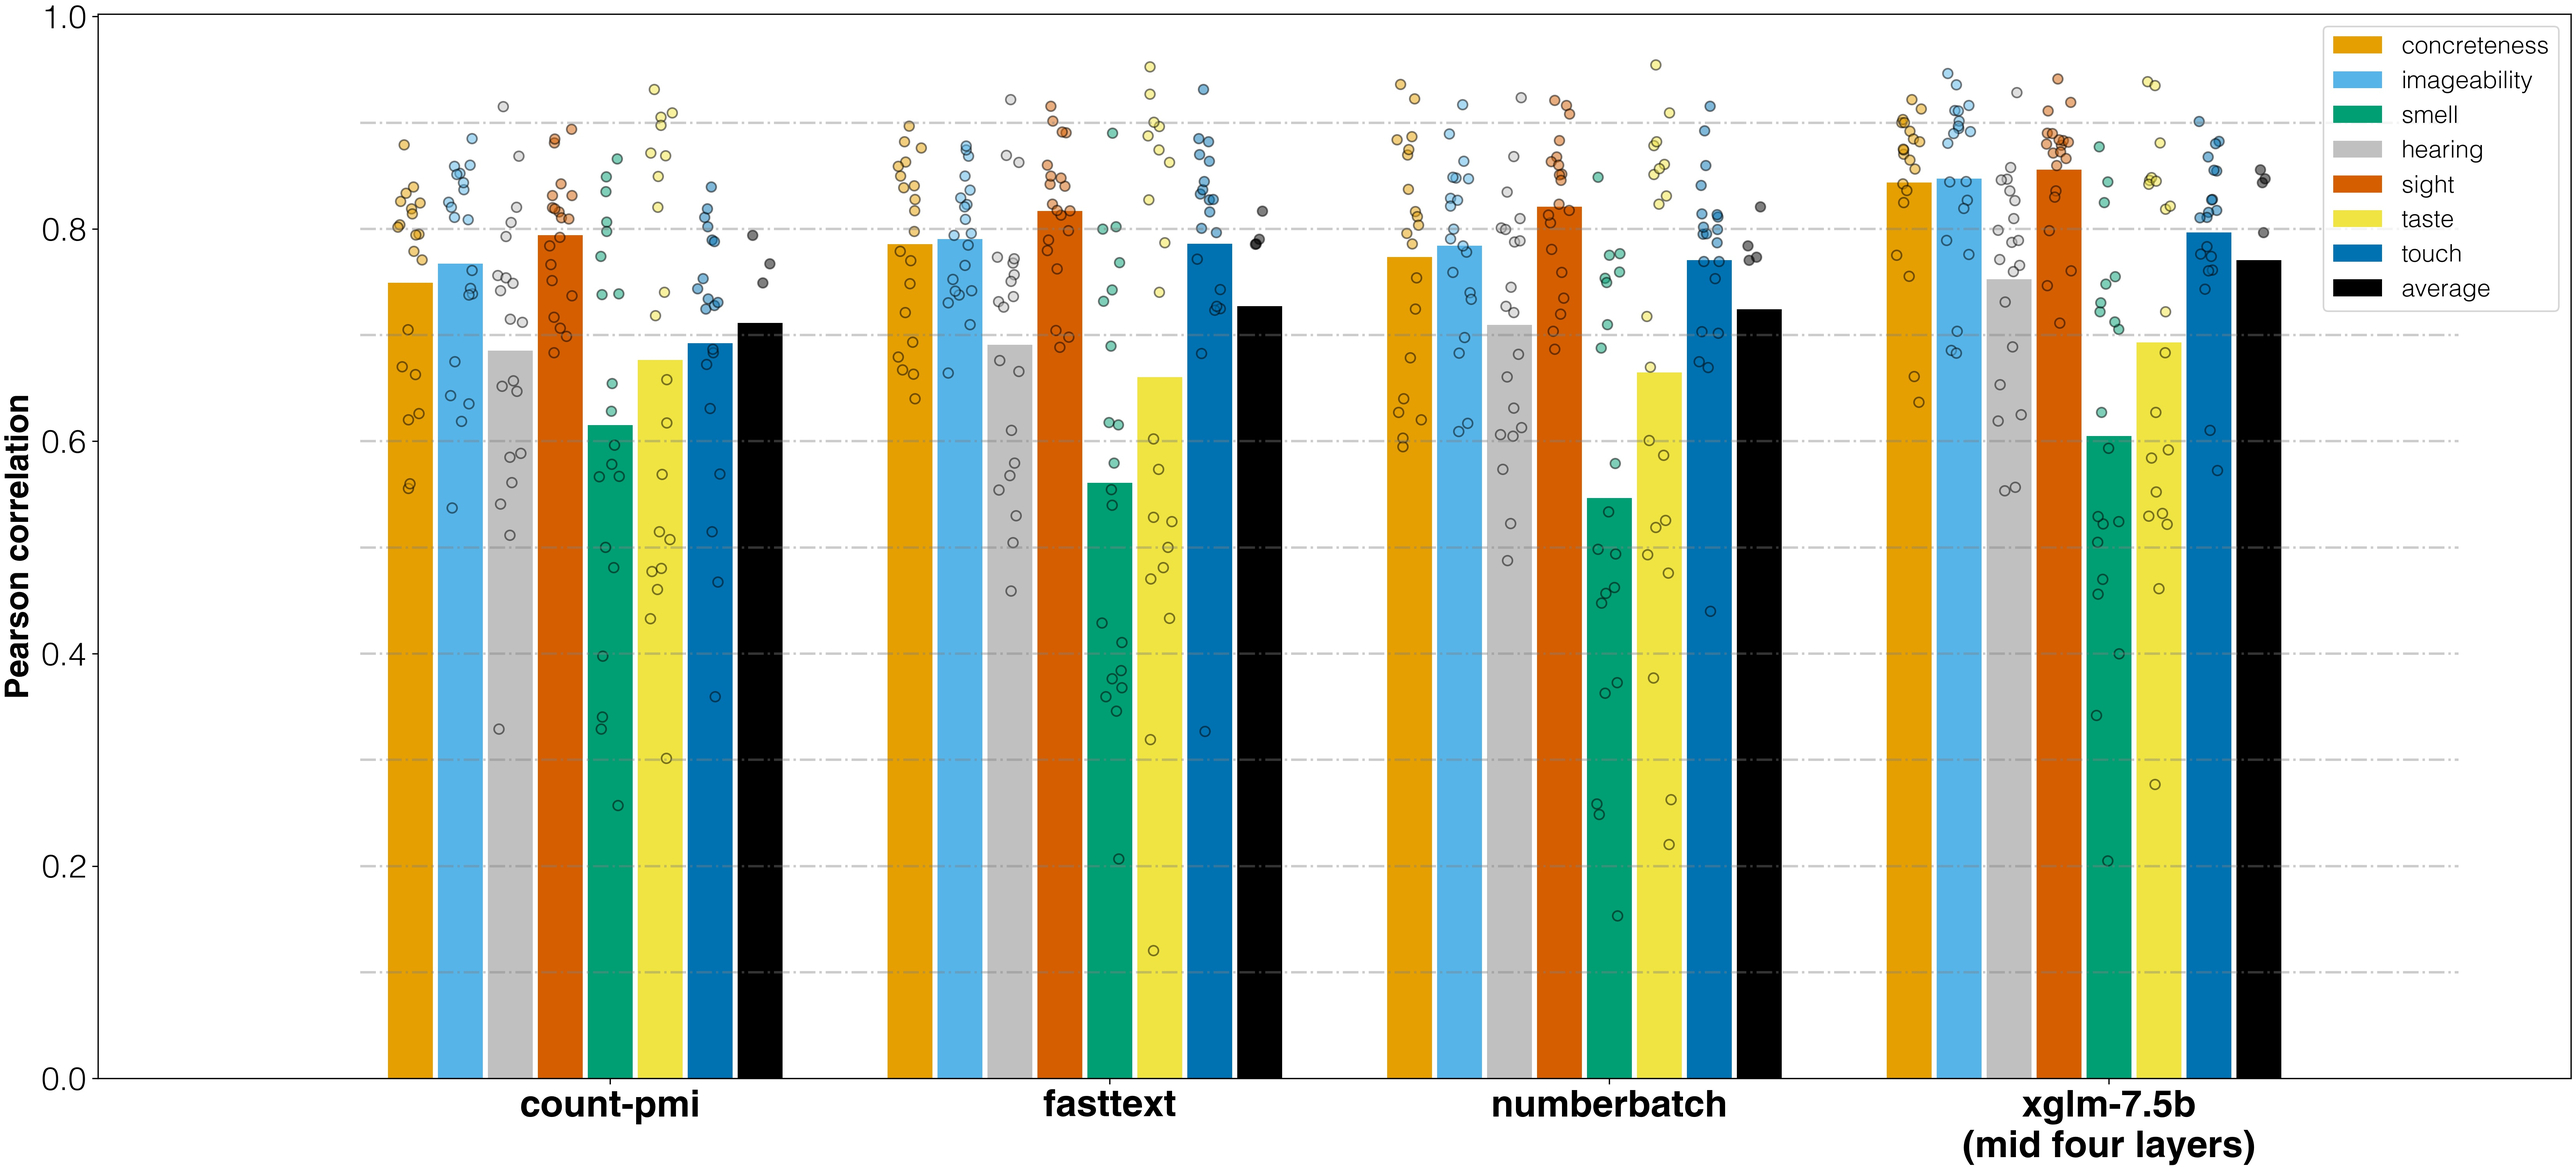
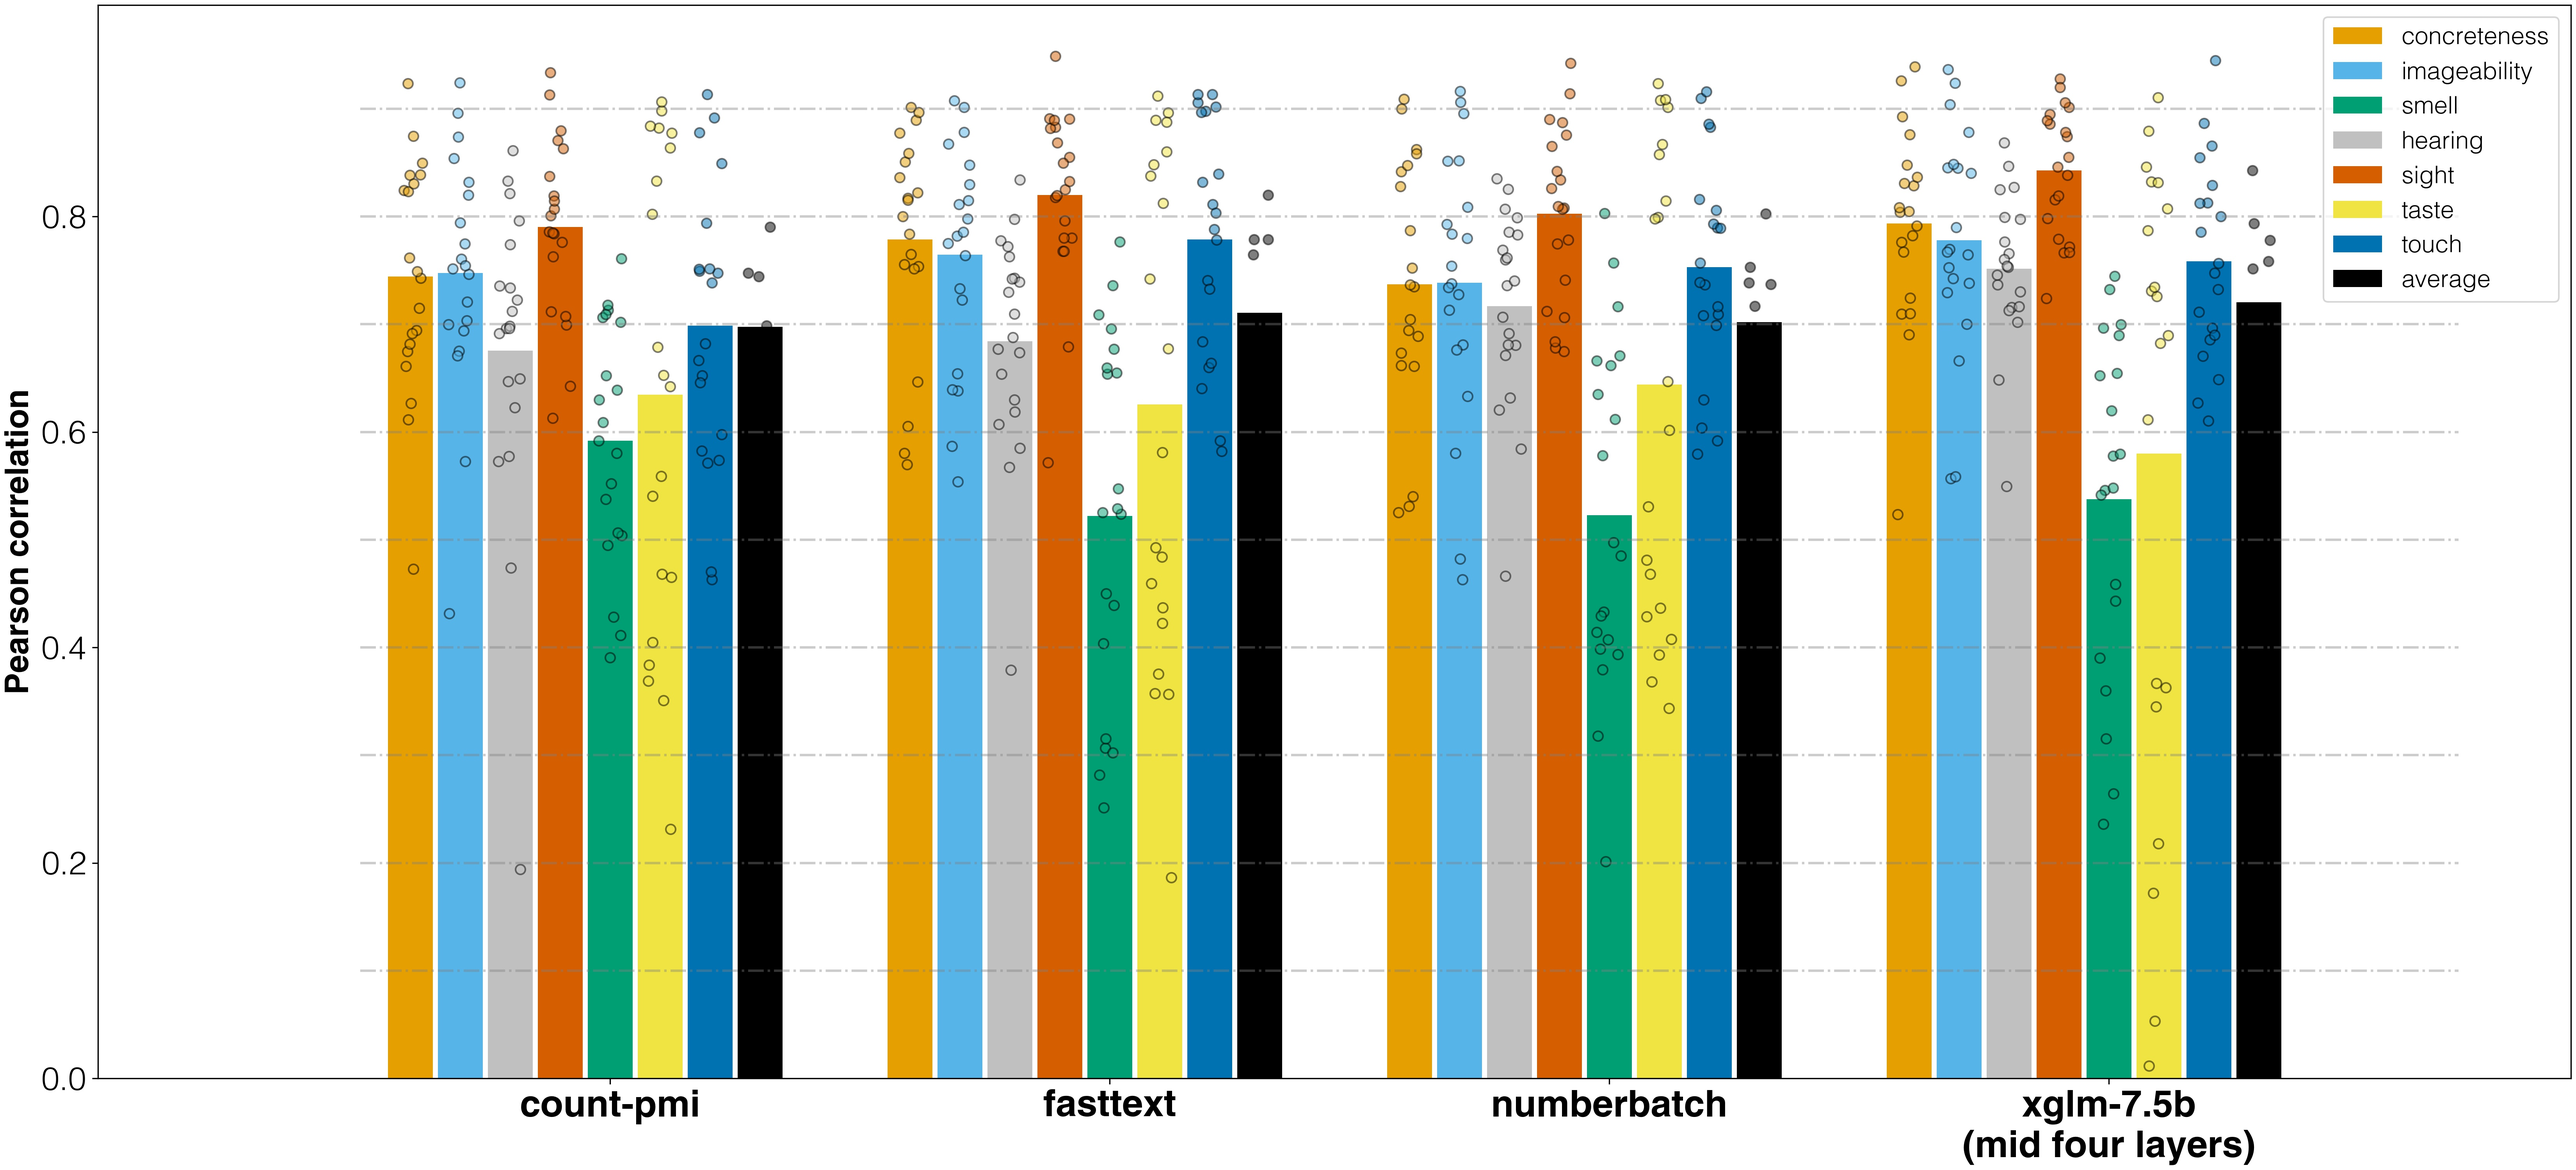
font size

diff --git a/07_rsa_and_evaluation.py b/07_rsa_and_evaluation.py
@@ -498,14 +498,14 @@ for col_name, pal in palette.items():
 ax.set_xticks([i+(len(corrections)/20) for i in range(len(sims.keys()))])
 ax.set_xticklabels(
                    [m.replace('_mid_four', '\n(mid four layers)') for m in models_sorted], 
-                   fontsize=23, 
+                   fontsize=27, 
                    ha='center', 
                    #rotation=45, 
                    fontweight='bold'
                    )
-pyplot.yticks(fontsize=20)
-ax.legend(fontsize=15)
-ax.set_ylabel('pairwise sense discrimination accuracy', fontsize=20, fontweight='bold')
+pyplot.yticks(fontsize=23)
+ax.legend(fontsize=20)
+ax.set_ylabel('pairwise sense discrimination accuracy', fontsize=25, fontweight='bold')
 
 pyplot.savefig('{}.jpg'.format(out_file), dpi=300)
 pyplot.clf()
